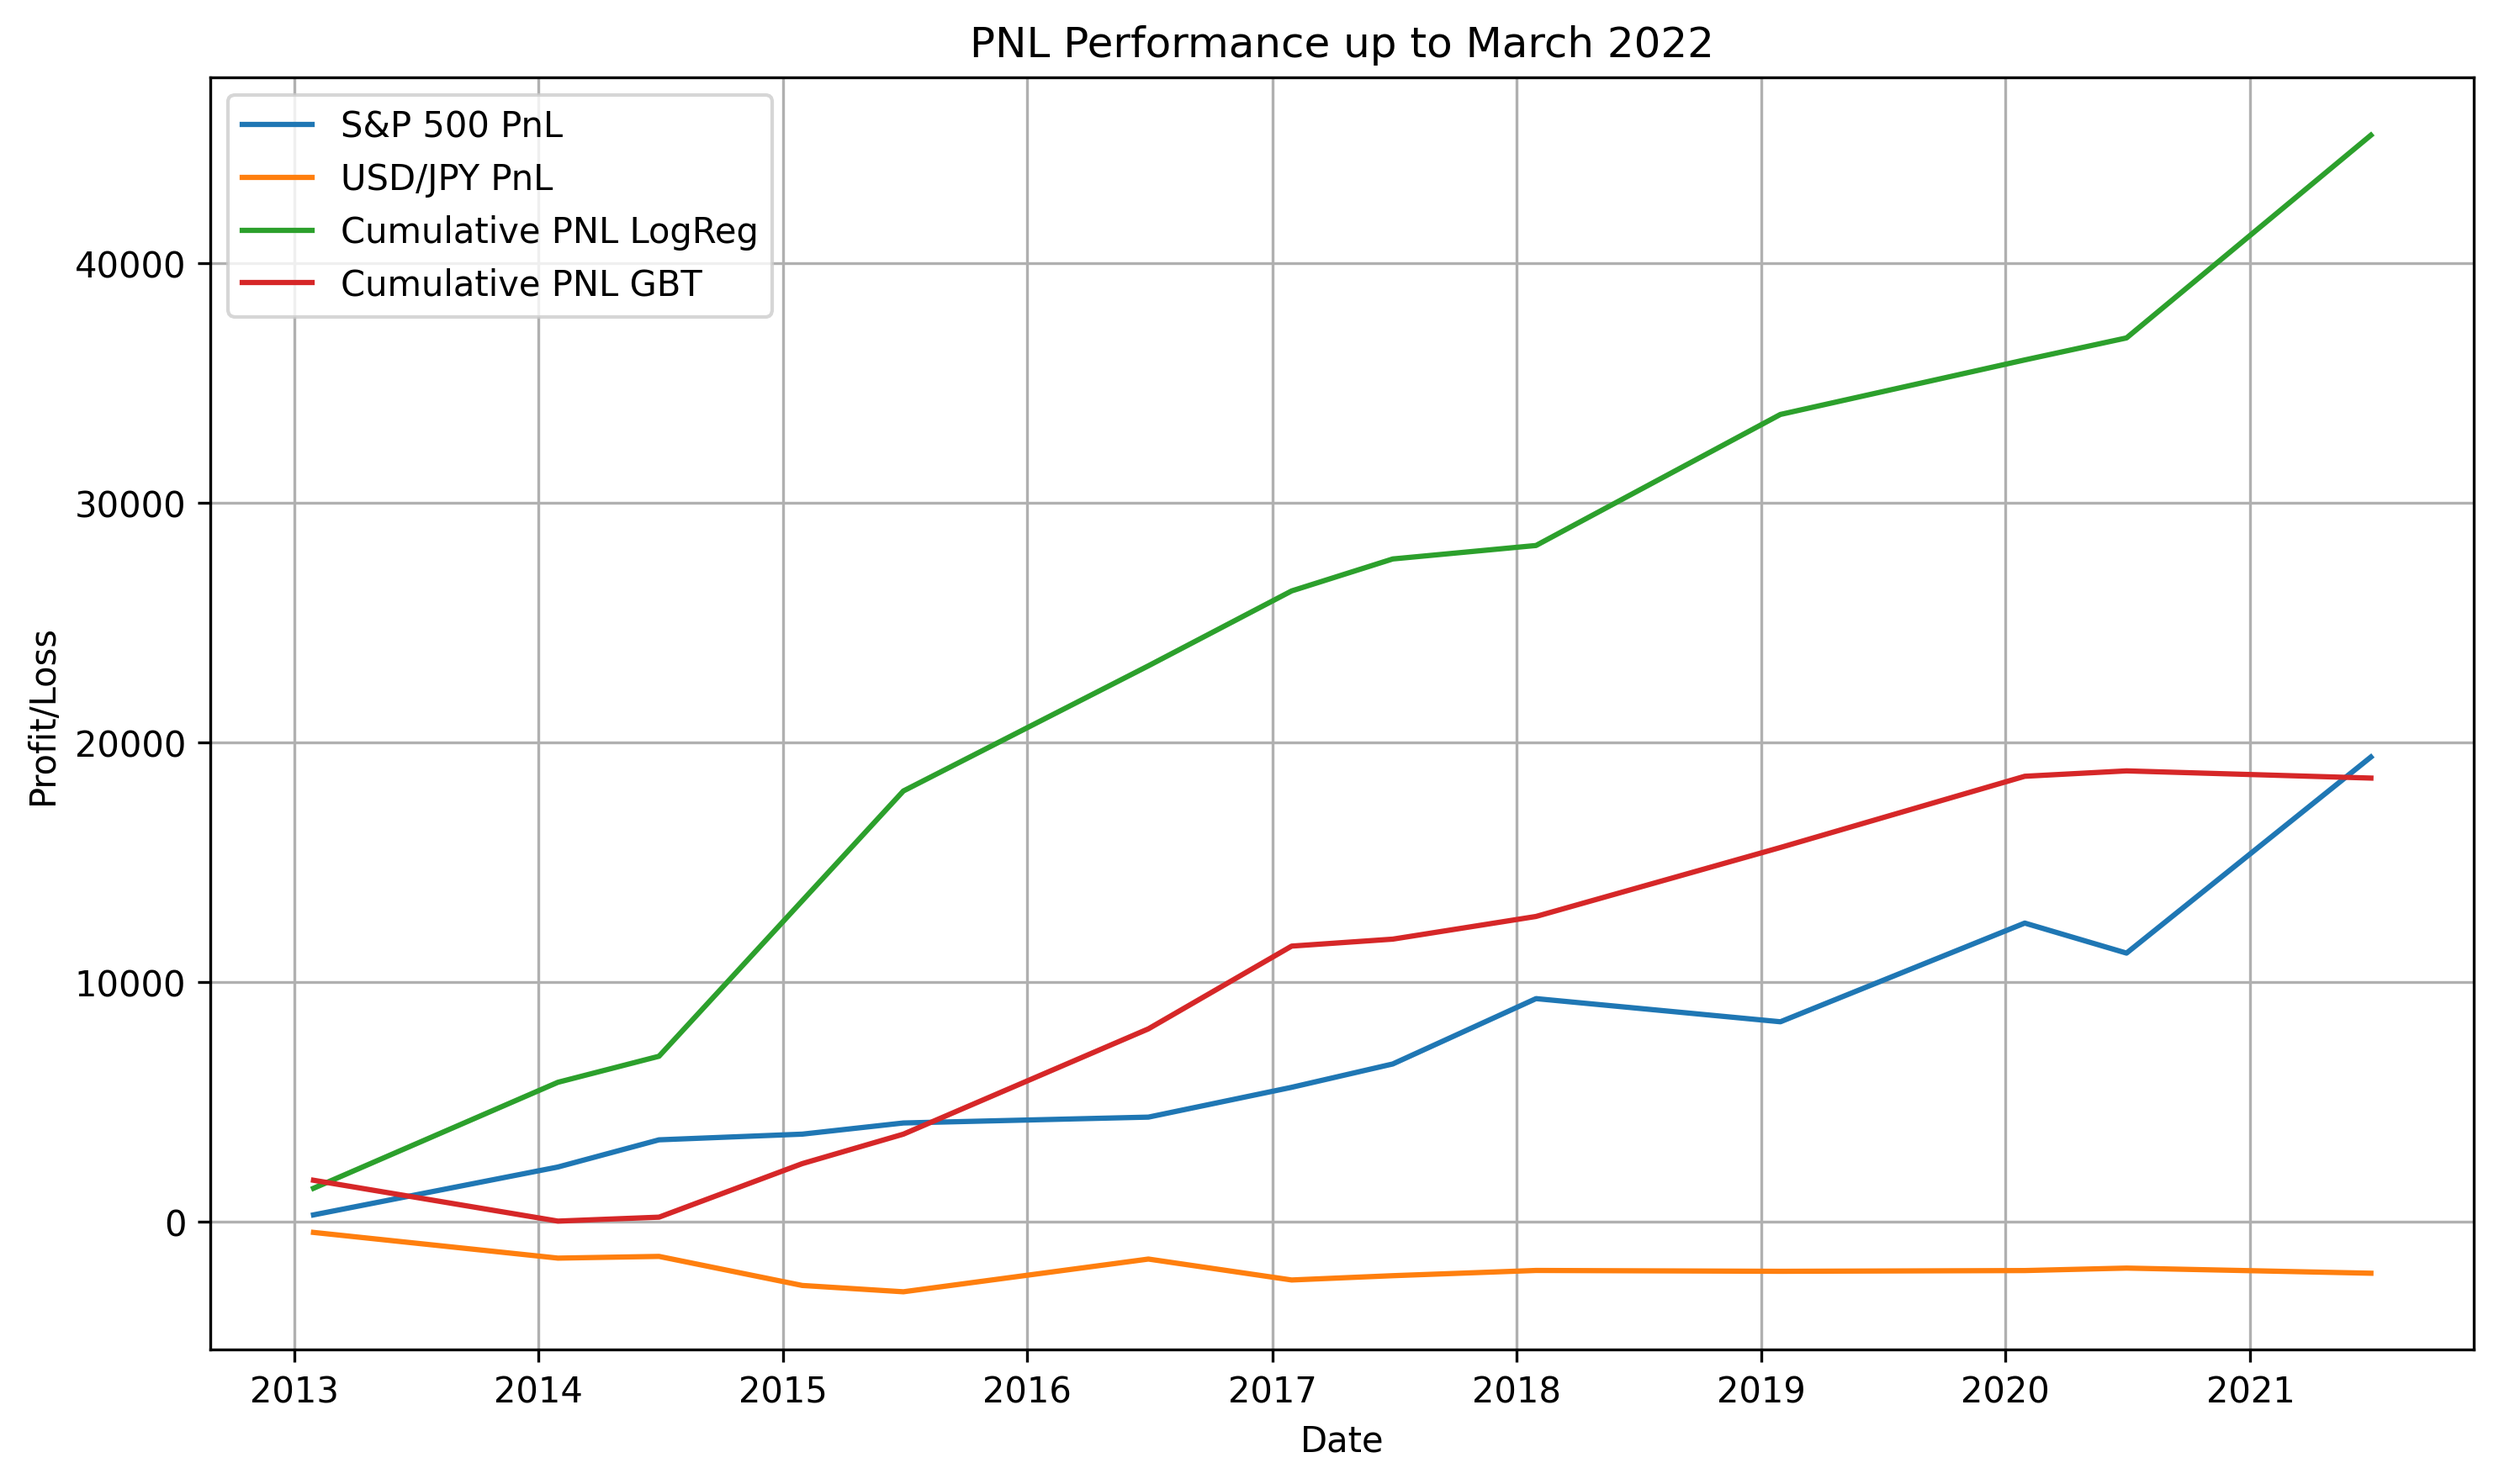
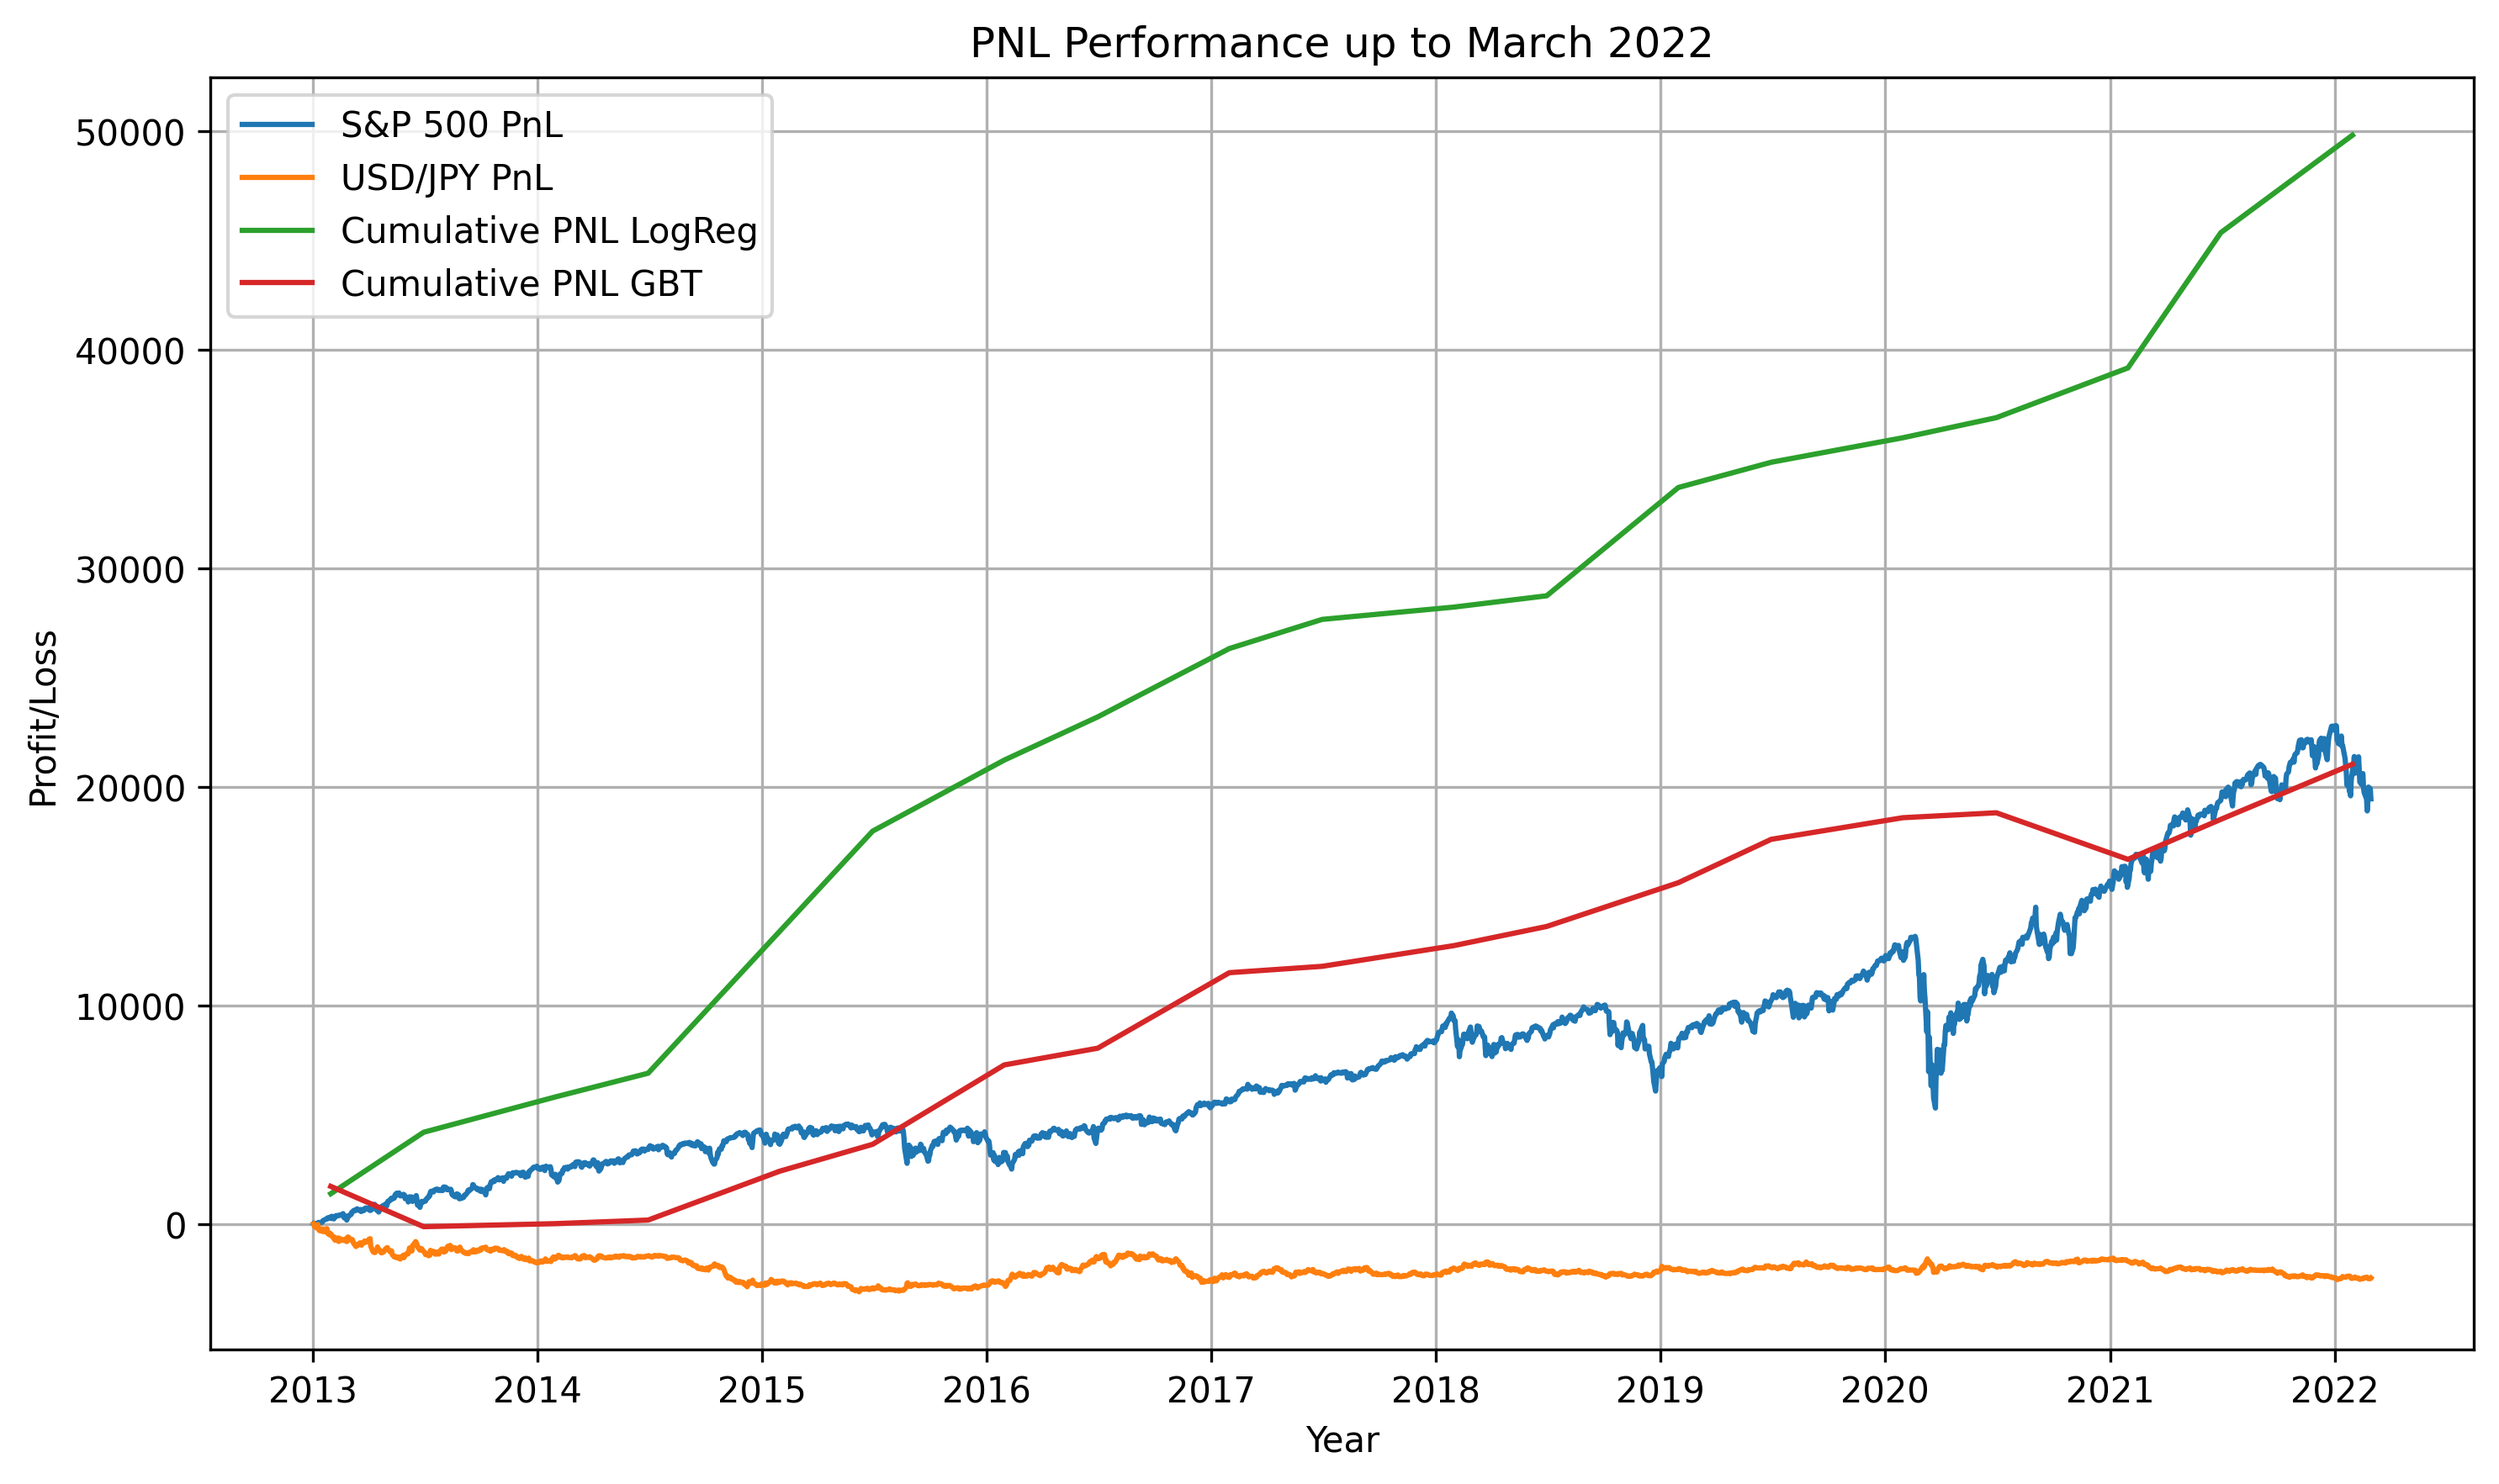
updated pnl_chart to v3

diff --git a/backtest/pnl_chartv3.py b/backtest/pnl_chartv3.py
@@ -37,8 +37,6 @@ data = {
     'Cumulative_PNL_GBT': cumulative_pnl_gbt
 }
 
-# df = pd.DataFrame(data)
-
 #####################################################
 
 import yfinance as yf
@@ -93,25 +91,26 @@ combined_data = combined_data.drop(columns=['Period'])
 # Display the combined DataFrame
 print(combined_data)
 
-#####################################################
-
-# Filter the combined data to include only data up to March 2022
 combined_data_cut_off = combined_data[combined_data['Date'] <= datetime(2022, 3, 1)]
 
-# Plotting the filtered data
+#####################################################
+
+# Filter data for S&P500 and USD/JPY up to '2022-03-01'
+filtered_pnl_data = pnl_data[pnl_data['Date'] <= '2022-03-01']
+
 plt.figure(figsize=(10, 6))  # Set the figure size
 
-# Plot S&P 500 PnL
-plt.plot(combined_data_cut_off['Date'], combined_data_cut_off['S&P500 PnL'], label='S&P 500 PnL')
+# Plot S&P 500 PnL up to '2022-03-01'
+plt.plot(filtered_pnl_data['Date'], filtered_pnl_data['S&P500 PnL'], label='S&P 500 PnL')
 
-# Plot USD/JPY PnL
-plt.plot(combined_data_cut_off['Date'], combined_data_cut_off['USD_JPY PnL'], label='USD/JPY PnL')
+# Plot USD/JPY PnL up to '2022-03-01'
+plt.plot(filtered_pnl_data['Date'], filtered_pnl_data['USD_JPY PnL'], label='USD/JPY PnL')
 
 # Plot Cumulative PNL for LogReg and GBT
-plt.plot(combined_data_cut_off['Date'], combined_data_cut_off['Cumulative_PNL_LogReg'], label='Cumulative PNL LogReg')
-plt.plot(combined_data_cut_off['Date'], combined_data_cut_off['Cumulative_PNL_GBT'], label='Cumulative PNL GBT')
+plt.plot(data_df['Period'], data_df['Cumulative_PNL_LogReg'], label='Cumulative PNL LogReg')
+plt.plot(data_df['Period'], data_df['Cumulative_PNL_GBT'], label='Cumulative PNL GBT')
 
-plt.xlabel('Date')  # Set the label for the x-axis
+plt.xlabel('Year')  # Set the label for the x-axis
 plt.ylabel('Profit/Loss')  # Set the label for the y-axis
 plt.title('PNL Performance up to March 2022')  # Set the plot title
 plt.legend()  # Show legend
@@ -120,6 +119,6 @@ plt.grid(True)  # Show gridlines
 plt.tight_layout()  # Adjust layout to prevent clipping of labels
 
 # Save the plot as a PNG file
-plt.savefig('pnl_chartv3', dpi=300, bbox_inches='tight')  # Save the plot as PNG
+plt.savefig('pnl_chartv3.png', dpi=300, bbox_inches='tight')  # Save the plot as PNG
 
 plt.show()  # Display the plot
